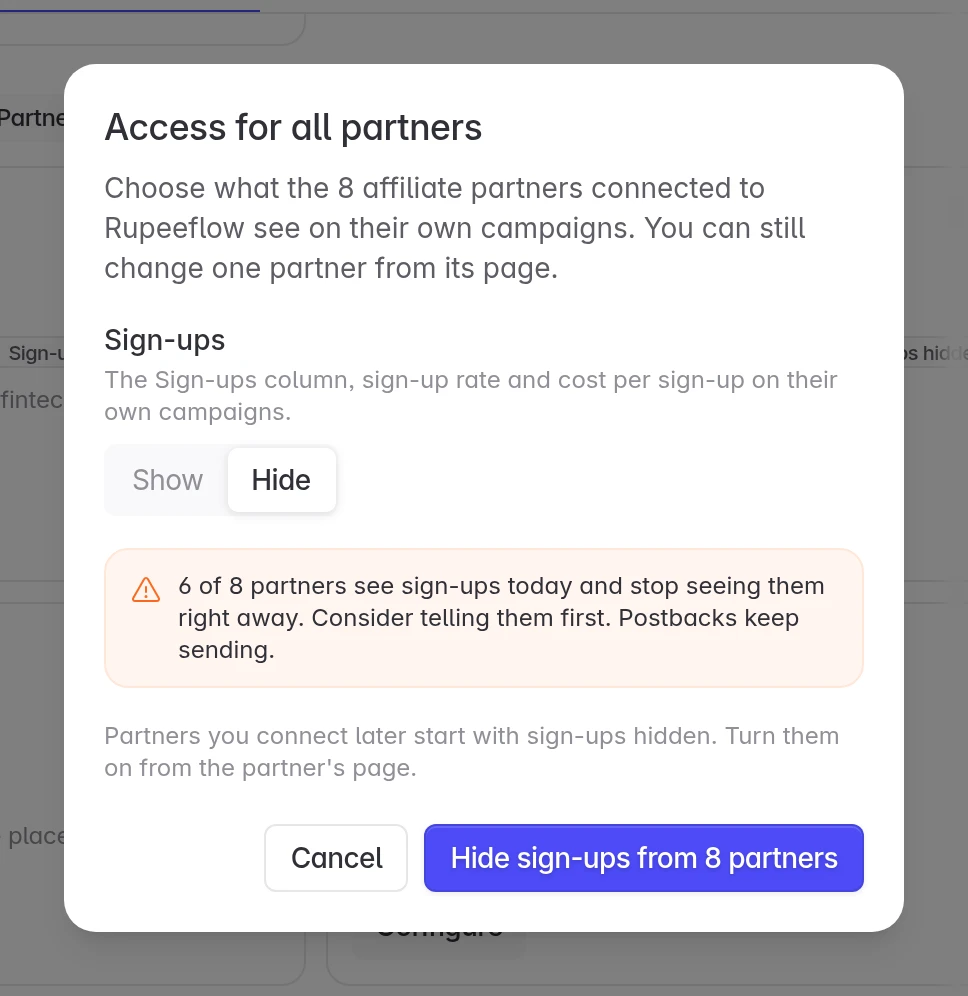
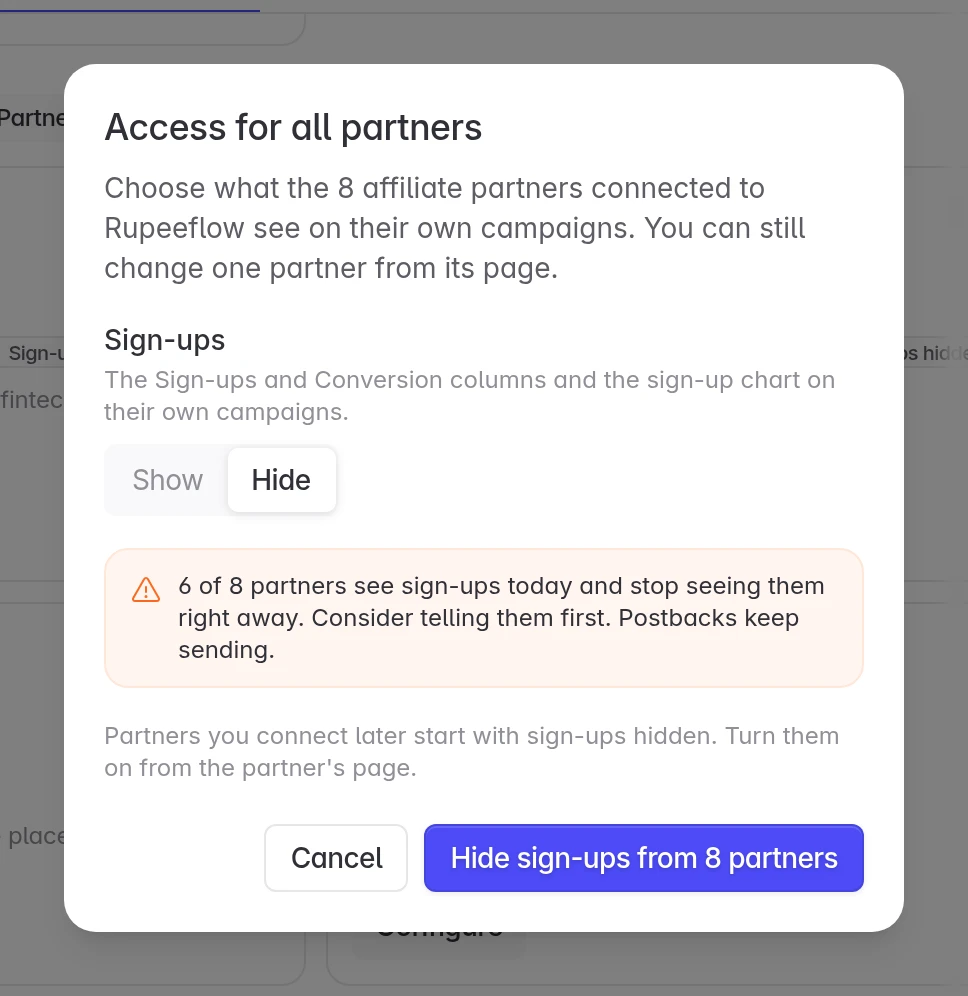
docs(partners): reconnect resets sign-ups; list only what partners see (LIN-4863)

Changed region(s): [[0.093, 0.3735, 0.8678, 0.4357]]

diff --git a/agency-partners/campaigns-for-affiliates.md b/agency-partners/campaigns-for-affiliates.md
@@ -105,21 +105,21 @@ The agency sees the campaigns it built, each with the affiliate's logo next to i
 
 ### The affiliate
 
-The affiliate sees only the campaigns attributed to it, including those the agency built for it, with the agency's logo on them. It never sees your spend or revenue, your other partners' campaigns, or your own campaigns. Whether it sees sign-ups is your choice, see [Show or hide sign-ups for partners](/affiliate-partners/hide-sign-ups).
+The affiliate sees only the campaigns attributed to it, including those the agency built for it, with the agency's logo on them. It never sees your spend or revenue, your other partners' campaigns, or your own campaigns. Whether it sees sign-ups is your choice. See [Show or hide sign-ups for partners](/affiliate-partners/hide-sign-ups).
 
 ![The affiliate's campaign list, limited to campaigns attributed to it](/images/agency-partners/campaigns-affiliate.webp)
 
 ### Side by side
 
-|                                  | You (customer) | Agency                                                                                                                                | Affiliate                                                              |
-| -------------------------------- | -------------- | ------------------------------------------------------------------------------------------------------------------------------------- | ---------------------------------------------------------------------- |
-| Campaigns listed                 | All            | Only the ones it built. You can widen this in [Control agency access](/agency-partners/control-agency-access#3-choose-how-much-data). | Only the ones attributed to it                                         |
-| Clicks, installs, sign-ups | Yes | Yes | Clicks and installs. Sign-ups only if you [show them](/affiliate-partners/hide-sign-ups) |
-| Spend, revenue, ROAS             | Yes            | Only with **Revenue & spend** on                                                                                                      | Never                                                                  |
-| Channels tab and overview totals | Yes            | Only if you turn them on                                                                                                              | No                                                                     |
-| Create campaigns                 | Yes            | With **App campaigns → Edit**                                                                                                             | Its own links only                                                     |
-| Edit campaigns                   | Yes            | With **App campaigns → Edit**. See [Edit a campaign](/agency-partners/edit-campaign).                                                     | Rename only. See [Edit a campaign](/affiliate-partners/edit-campaign). |
-| Delete campaigns                 | Yes            | No                                                                                                                                    | No                                                                     |
+|                                  | You (customer) | Agency                                                                                                                                | Affiliate                                                                                |
+| -------------------------------- | -------------- | ------------------------------------------------------------------------------------------------------------------------------------- | ---------------------------------------------------------------------------------------- |
+| Campaigns listed                 | All            | Only the ones it built. You can widen this in [Control agency access](/agency-partners/control-agency-access#3-choose-how-much-data). | Only the ones attributed to it                                                           |
+| Clicks, installs, sign-ups       | Yes            | Yes                                                                                                                                   | Clicks and installs. Sign-ups only if you [show them](/affiliate-partners/hide-sign-ups) |
+| Spend, revenue, ROAS             | Yes            | Only with **Revenue & spend** on                                                                                                      | Never                                                                                    |
+| Channels tab and overview totals | Yes            | Only if you turn them on                                                                                                              | No                                                                                       |
+| Create campaigns                 | Yes            | With **App campaigns → Edit**                                                                                                         | Its own links only                                                                       |
+| Edit campaigns                   | Yes            | With **App campaigns → Edit**. See [Edit a campaign](/agency-partners/edit-campaign).                                                 | Rename only. See [Edit a campaign](/affiliate-partners/edit-campaign).                   |
+| Delete campaigns                 | Yes            | No                                                                                                                                    | No                                                                                       |
 
 ## Troubleshooting
 

diff --git a/affiliate-partners/hide-sign-ups.md b/affiliate-partners/hide-sign-ups.md
@@ -11,15 +11,15 @@ Affiliate partners see clicks and installs on the campaigns attributed to them. 
 
 | Partner | Sign-ups |
 | --- | --- |
-| Already connected when this setting was added (November 2026) | Shown, until you hide them |
-| Connected after that | Hidden, until you show them |
+| Already connected before this setting existed | Shown, until you hide them |
+| Connected after that, or disconnected and connected again | Hidden, until you show them |
 
 When sign-ups are hidden, the partner doesn't see:
 
-- The **Sign-ups**, **Conversion** and **Cost Per Signup** columns on its campaigns, ad sets, creatives and keywords
-- The **Sign Ups** figure, chart line and sign-up stage in the campaign details
+- The **Sign-ups** and **Conversion** columns on its campaigns, ad sets, creatives and keywords
+- The **Sign Ups** figure, chart line and sign-up flow in the campaign details
 
-It still sees clicks, installs and the [events you share](#share-events-with-a-partner). Postbacks don't change: if a partner receives sign-up postbacks today, it keeps receiving them.
+It still sees clicks, installs and the [events you share](#share-events-with-a-partner) in its campaigns table. Disconnecting a partner resets this, so tell the partner before you connect it again. Postbacks don't change: if a partner receives sign-up postbacks today, it keeps receiving them.
 
 <Info>
 
@@ -85,7 +85,7 @@ Tell partners before you hide sign-ups. The column disappears from their dashboa
 
 ## Share events with a partner
 
-Separately from sign-ups, you choose which in-app events a partner sees as counts on its campaigns. On the partner's page, click **Share events** (or **Shared events** once some are shared), pick the events and click **Save**. Partners never see revenue, other partners' campaigns or your users.
+Separately from sign-ups, you choose which in-app events a partner sees as counts on its campaigns. On the partner's page, click **Share events** (or **Shared events** with a count, once some are shared), pick the events and click **Save**. Partners never see revenue, other partners' campaigns or your users.
 
 If a partner needs a sign-up number that matches yours, share the event your app sends at registration instead of showing sign-ups.
 
